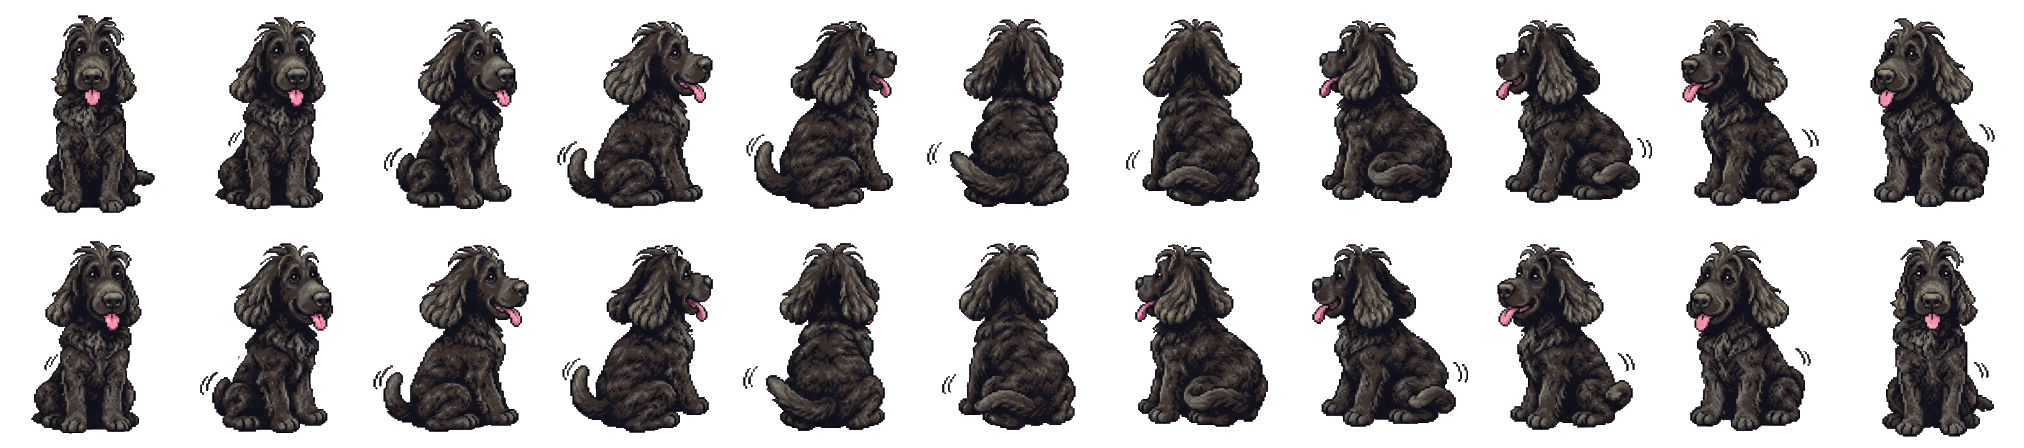
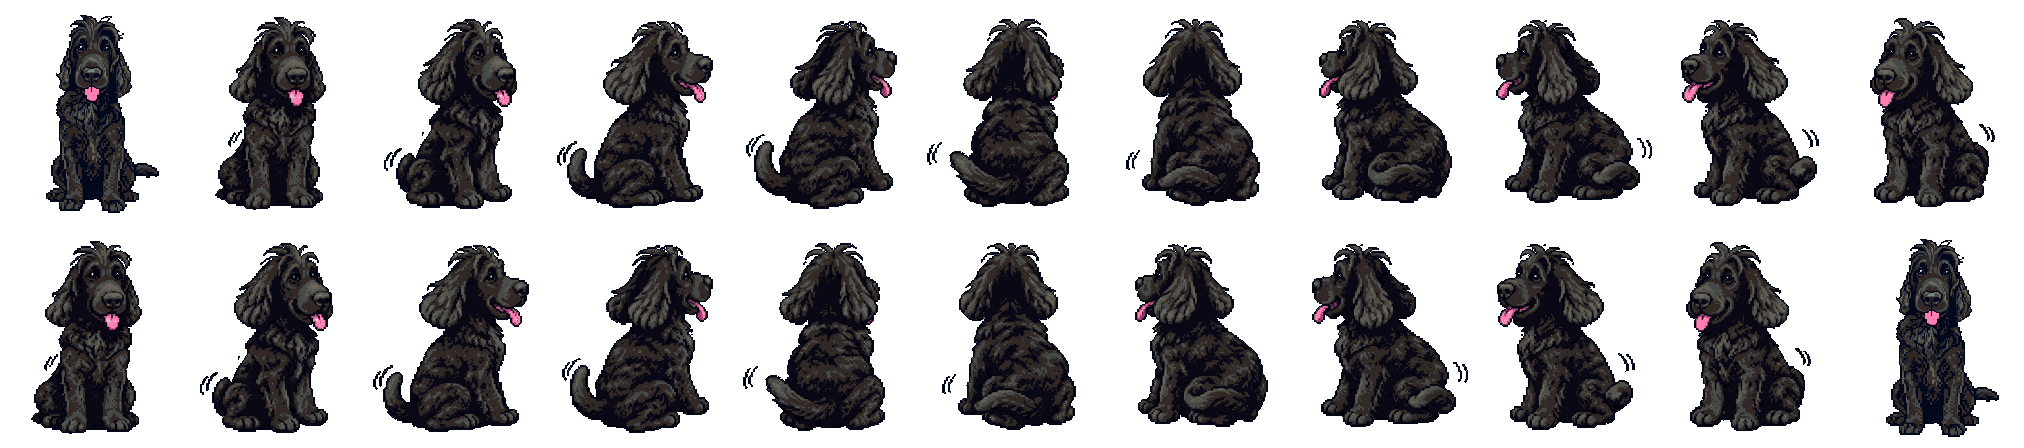
转圈的狗统一成待机图的画风：同一调色板、亮度、深藏青描边，首尾直接接待机帧；新增 .dev/unify.js

diff --git a/.dev/unify.js b/.dev/unify.js
@@ -1,0 +1,66 @@
+// 把别的动画帧「统一成待机图的画风」。在浏览器里用（开发服务器 + 控制台/脚本）：
+//   const { idlePalette, unifyFrames } = await import('/.dev/unify.js');
+//   const ref = await idlePalette();                 // 读 assets/dog/idle.gif（半尺寸 184×224 = 一格像素一个点）
+//   const out = unifyFrames(frames, ref);            // frames：已经去背景、对齐好的 184×224 ImageData 数组
+// 做的事：① 亮度分布对齐待机图（直方图匹配，舌头的粉色不动）；② 每个颜色换成待机图调色板里最接近的；
+//         ③ 透明度二值化；④ 贴着透明的一圈像素换成待机图的深藏青描边 #03091d。
+export async function idlePalette(src = '/assets/dog/idle.gif') {
+  const buf = await (await fetch(src)).arrayBuffer();
+  const dec = new ImageDecoder({ data: buf, type: 'image/gif' });
+  await dec.tracks.ready;
+  const n = dec.tracks.selectedTrack.frameCount;
+  const cv = new OffscreenCanvas(368, 448), cx = cv.getContext('2d');
+  const half = [];
+  for (let i = 0; i < n; i++) {
+    const { image } = await dec.decode({ frameIndex: i });
+    cx.clearRect(0, 0, 368, 448); cx.drawImage(image, 0, 0); image.close();
+    const f = cx.getImageData(0, 0, 368, 448), o = new ImageData(184, 224);
+    for (let y = 0; y < 224; y++) for (let x = 0; x < 184; x++) {
+      const s = (y * 2 * 368 + x * 2) * 4, t = (y * 184 + x) * 4;
+      for (let k = 0; k < 4; k++) o.data[t + k] = f.data[s + k];
+    }
+    half.push(o);
+  }
+  const cnt = new Map(), L = [];
+  for (const f of half) for (let i = 0; i < f.data.length; i += 4) {
+    const d = f.data; if (!d[i + 3]) continue;
+    const k = (d[i] << 16) | (d[i + 1] << 8) | d[i + 2]; cnt.set(k, (cnt.get(k) || 0) + 1);
+    if (!pink(d[i], d[i + 1], d[i + 2])) L.push(lum(d[i], d[i + 1], d[i + 2]));
+  }
+  const pal = [...cnt].filter(([, c]) => c >= 6).map(([k]) => [k >> 16, (k >> 8) & 255, k & 255]);
+  return { frames: half, pal, cdf: cdf(L) };
+}
+
+export function unifyFrames(frames, ref, outline = [0x03, 0x09, 0x1d]) {
+  const L = [];
+  for (const f of frames) for (let i = 0; i < f.data.length; i += 4) {
+    const d = f.data; if (d[i + 3] > 110 && !pink(d[i], d[i + 1], d[i + 2])) L.push(lum(d[i], d[i + 1], d[i + 2]));
+  }
+  const cS = cdf(L), map = new Float64Array(256);
+  for (let v = 0; v < 256; v++) { let j = 0; while (j < 255 && ref.cdf[j] < cS[v]) j++; map[v] = j; }
+  return frames.map((f) => {
+    const W = f.width, H = f.height, d = f.data, o = new ImageData(W, H), e = o.data;
+    for (let i = 0; i < d.length; i += 4) {
+      if (d[i + 3] <= 110) continue;
+      let r = d[i], g = d[i + 1], b = d[i + 2];
+      if (!pink(r, g, b)) { const l = lum(r, g, b) || 1, k = map[Math.min(255, Math.round(l))] / l; r *= k; g *= k; b *= k; }
+      const [R, G, B] = nearest(ref.pal, r, g, b);
+      e[i] = R; e[i + 1] = G; e[i + 2] = B; e[i + 3] = 255;
+    }
+    const op = (x, y) => x >= 0 && y >= 0 && x < W && y < H && e[(y * W + x) * 4 + 3] > 0;
+    const edge = [];
+    for (let y = 0; y < H; y++) for (let x = 0; x < W; x++)
+      if (op(x, y) && (!op(x - 1, y) || !op(x + 1, y) || !op(x, y - 1) || !op(x, y + 1))) edge.push((y * W + x) * 4);
+    for (const i of edge) if (!pink(e[i], e[i + 1], e[i + 2])) { e[i] = outline[0]; e[i + 1] = outline[1]; e[i + 2] = outline[2]; }
+    return o;
+  });
+}
+
+const lum = (r, g, b) => 0.2126 * r + 0.7152 * g + 0.0722 * b;
+const pink = (r, g, b) => r - g > 45 && r > 110;
+function cdf(a) { const h = new Float64Array(256); for (const v of a) h[Math.min(255, Math.round(v))]++; let s = 0; return h.map((v) => (s += v) / a.length); }
+function nearest(pal, r, g, b) {
+  let best = pal[0], bd = Infinity;
+  for (const p of pal) { const dr = r - p[0], dg = g - p[1], db = b - p[2], d = 2 * dr * dr + 4 * dg * dg + 3 * db * db; if (d < bd) { bd = d; best = p; } }
+  return best;
+}

diff --git a/AGENTS.md b/AGENTS.md
@@ -149,6 +149,8 @@ node tests/gestures.test.mjs
 
 ## 开发日志（最新的写在最上面）
 
+- **2026-11-08 · Claude**：转圈的狗在画风上统一成待机图（用户说一眼能看出不是一个动画）。分析：待机 GIF 是 184×224 的像素画放大 2 倍，只有约 34–41 色、近黑偏藏青、外圈有 #03091d 描边；转圈 GIF 偏棕偏亮、边缘糊、颜色 200+、没有描边。新工具 `.dev/unify.js`（浏览器里 import）：亮度直方图对齐待机图 → 每个颜色换成待机调色板里最近的 → 透明二值化 → 贴边一圈换成深藏青描边（舌头粉色不参与亮度映射）。`spin.png` 用它重做，22 帧帧序不变，但第一帧和最后一帧直接用待机图第 0 帧（开始/结束无缝）。其他动作（摸头、握手、装死、走开、跑过来、趴下）还没统一，以后可以用同一个工具。只本地提交。
+
 - **2026-11-08 · Claude**：修动画切换时的闪烁（用户发现趴下有闪一下）：① `playSprite` 换图时会先把宽度清空、等图片 onload 再设回帧比例，中间有一两帧狗被拉宽；② 第一次播某个动作时图片现场加载，狗空白一下。趴下连换两张图（`liedown` → `lying`）最明显。改法：`Pet.preload()` 打开网页就把所有非视频素材加载并 `decode()`，引用留在 `this.sheets`，顺便算好精灵图帧宽高比；`playSprite` 换图时直接用算好的宽度，不再清空。所有动作都受益。只本地提交。
 
 - **2026-11-08 · Claude**：装死加快 2 倍：`config.playDead.fps` 12 → 24（整段约 3.2 秒）。只本地提交。
